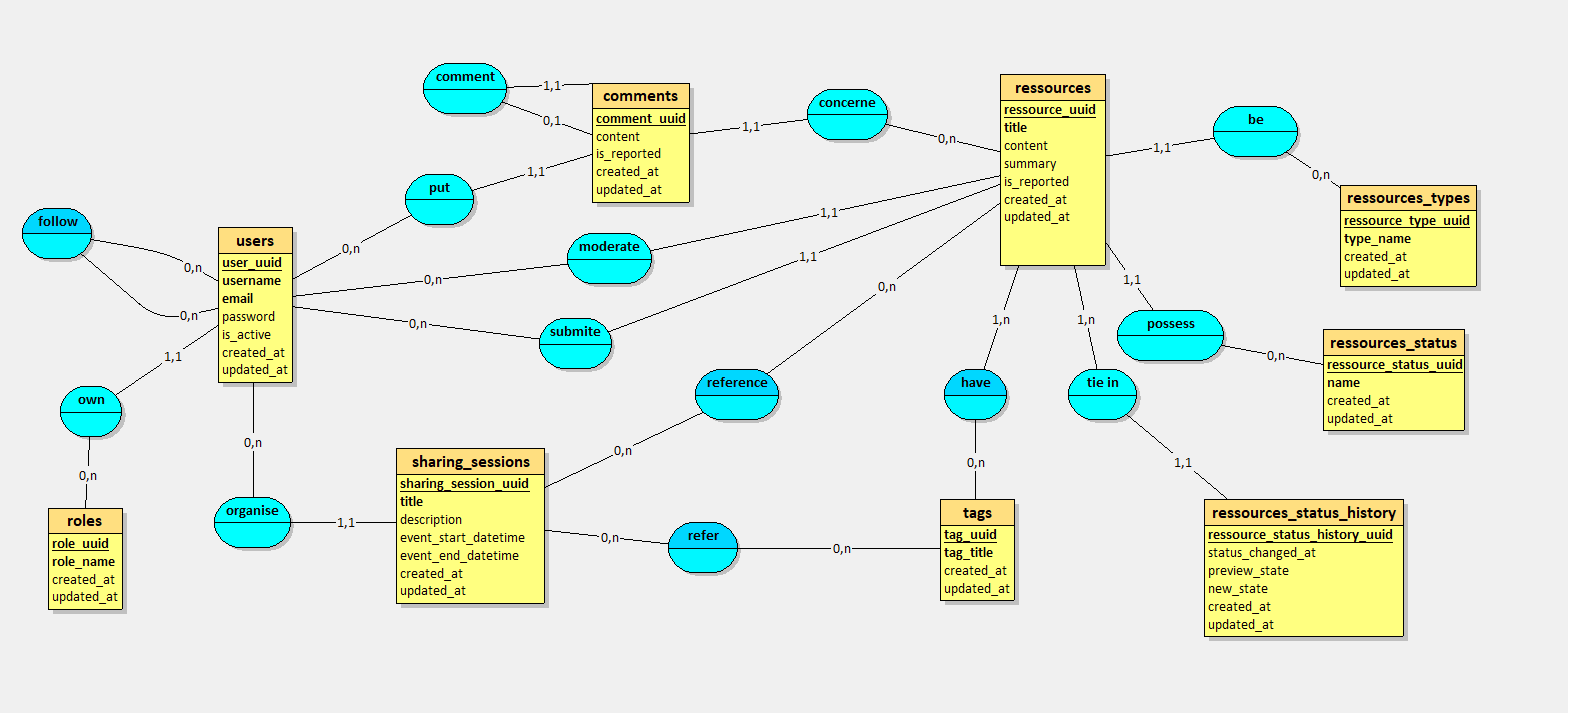
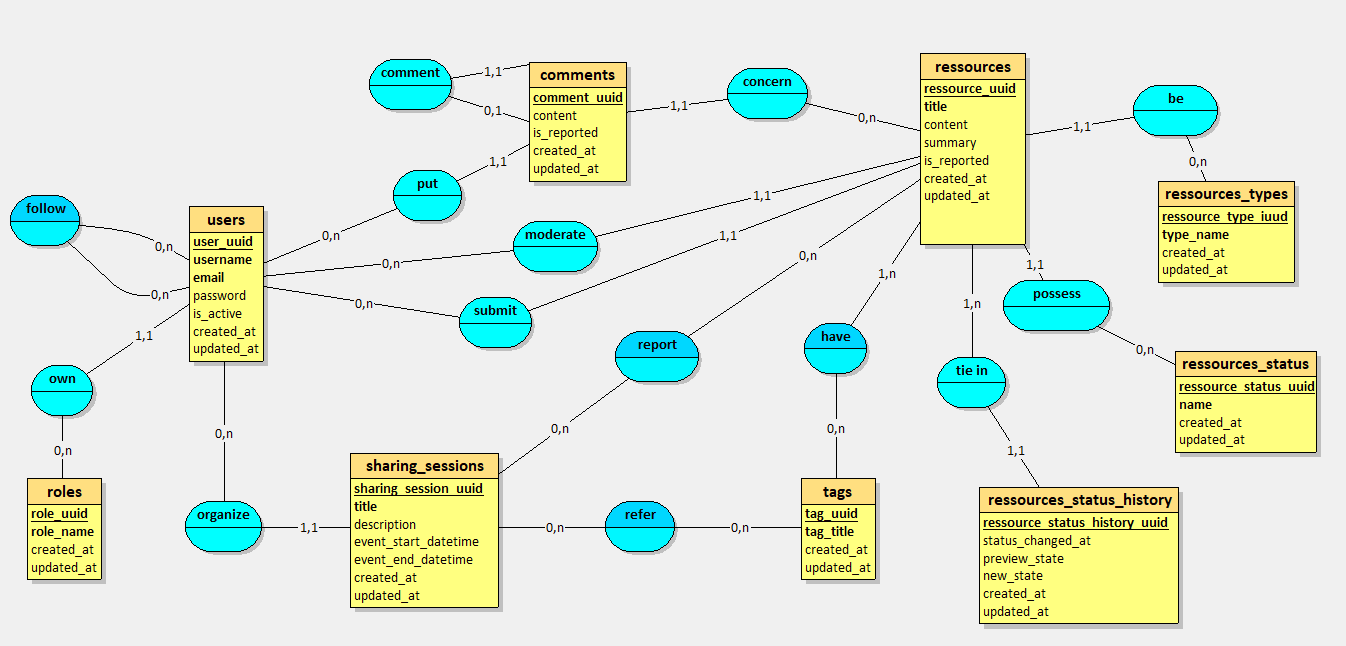
docs : fix images MCD MLD /add n° régles gestion

diff --git a/doc/Spécifications-fonctionnelles/Règles-de-gestion.md b/doc/Spécifications-fonctionnelles/Règles-de-gestion.md
@@ -2,139 +2,139 @@
 
 ### Accessibilité
 
-- L'application doit être conforme aux normes d'accessibilité WCAG pour garantir l'accessibilité à tous les utilisateurs.
+- RG_01: L'application doit être conforme aux normes d'accessibilité WCAG pour garantir l'accessibilité à tous les utilisateurs.
 
 ## Utilisateurs
 
 ### Visiteur
 
-- Un visiteur peut s’enregistrer pour devenir membre avec un pseudonyme unique, un email unique et un mot de passe et a un état actif par défaut
-- Un visiteur peut télécharger une ressource
-- Un visiteur peut lire les ressources présentes sur la plateforme
-- Un visiteur peut parcourir les différentes catégories de contenu
-- Un visiteur peut utiliser la fonction de recherche pour trouver des ressources
+- RG_02: Un visiteur peut s’enregistrer pour devenir membre avec un pseudonyme unique, un email unique et un mot de passe et a un état actif par défaut
+- RG_03:  Un visiteur peut télécharger une ressource
+- RG_04: Un visiteur peut lire les ressources présentes sur la plateforme
+- RG_05: Un visiteur peut parcourir les différentes catégories de contenu
+- RG_06: Un visiteur peut utiliser la fonction de recherche pour trouver des ressources
 
 ### Membres
 
-- Un membre peut soumettre à publication une ressource
-- Un membre peut soumettre à publication un lien d’une ressource
-- Un membre peut déposer un ou des commentaires à une publication
-- Un membre peut modifier son commentaire si aucun autre commentaire n’a été ajouté en réponse à celui-ci
-- Un membre peut répondre à un ou des commentaires
-- Un membre peut ajouter une note à une ressource (notation en étoile sur /5 )
-- Un membre peut modifier sa note à une ressource (notation en étoile sur /5 )
-- Un membre peut supprimer sa note à une ressource (notation en étoile sur /5 )
-- Un membre peut télécharger une ressource
-- Un membre peut visualiser une vidéo (tutoriel, conférence…)
-- Un membre a un dashboard où il visualise ses commentaires
-- Un membre a un dashboard où il visualise ses favoris (ressources)
-- Un membre a un dashboard où il visualise les statistiques de ses publications (nombre de vues, commentaires, partages, etc.)
-- Un membre peut ajouter des contenus (ressources) en favori à son dashboard
-- Un membre peut supprimer des contenus (ressources) en favori à son dashboard
-- Un membre peut lister les tags des contenus les plus visités
-- Un membre peut filtrer les tags des contenus les plus visités
-- Un membre peut recevoir des notifications pour les nouveaux contenus correspondant à ses intérêts
-- Un membre peut signaler du contenu inapproprié aux modérateurs
-- Un membre peut suivre d’autres utilisateurs
-- Un membre peut proposer et participer à des discussions de groupe ou forums
-- Un membre peut configurer des alertes sur ses tags préférés
-- Un membre peut voir les sessions d’échange proposées par les autres membres
+- RG_07: Un membre peut soumettre à publication une ressource
+- RG_08: Un membre peut soumettre à publication un lien d’une ressource
+- RG_09 Un membre peut déposer un ou des commentaires à une publication
+- RG_10: Un membre peut modifier son commentaire si aucun autre commentaire n’a été ajouté en réponse à celui-ci
+- RG_11: Un membre peut répondre à un ou des commentaires
+- RG_12: Un membre peut ajouter une note à une ressource (notation en étoile sur /5 )
+- RG_13: Un membre peut modifier sa note à une ressource (notation en étoile sur /5 )
+- RG_14: Un membre peut supprimer sa note à une ressource (notation en étoile sur /5 )
+- RG_15: Un membre peut télécharger une ressource
+- RG_16: Un membre peut visualiser une vidéo (tutoriel, conférence…)
+- RG_17: Un membre a un dashboard où il visualise ses commentaires
+- RG_18: Un membre a un dashboard où il visualise ses favoris (ressources)
+- RG_19: Un membre a un dashboard où il visualise les statistiques de ses publications (nombre de vues, commentaires, partages, etc.)
+- RG_20: Un membre peut ajouter des contenus (ressources) en favori à son dashboard
+- RG_21: Un membre peut supprimer des contenus (ressources) en favori à son dashboard
+- RG_22: Un membre peut lister les tags des contenus les plus visités
+- RG_23: Un membre peut filtrer les tags des contenus les plus visités
+- RG_24: Un membre peut recevoir des notifications pour les nouveaux contenus correspondant à ses intérêts
+- RG_25: Un membre peut signaler du contenu inapproprié aux modérateurs
+- RG_26: Un membre peut suivre d’autres utilisateurs
+- RG_27: Un membre peut proposer et participer à des discussions de groupe ou forums
+- RG_28: Un membre peut configurer des alertes sur ses tags préférés
+- RG_29: Un membre peut voir les sessions d’échange proposées par les autres membres
 
 ### Modérateur
 
-- Un modérateur a tous les droits d’un membre
-- Un modérateur peut anonymisé un commentaire en cas de contenu haineux, discriminant ou inapproprié, déclenchant une notification automatique à l'encontre de l'auteur du commentaire
-- Un modérateur peut envoyer une notification à un membre
-- Un modérateur peut désactiver un membre (avec notification automatique)
-- Un modérateur vérifie les ressources avant publication
-- Un modérateur peut ajouter une ressource
-- Un modérateur peut désactiver une ressource
-- Un modérateur peut voir une ressource désactivée
-- Un modérateur a un dashboard où il visualise les dernières resources avant mise en ligne
-- Un modérateur a un dashboard où il visualise ses dernières ressources archivées
-- Un modérateur a un dashboard où il visualise les derniers commentaires signalés
-- Un modérateur peut restaurer une ressource
-- Un modérateur peut accéder à l’historique des modifications des commentaires et des ressources
-- Un modérateur peut attribuer des avertissements aux membres pour comportements inappropriés
-- Un modérateur peut consulter des rapports d’activité des membres
-- Un modérateur a un outil pour détecter automatiquement du contenu inapproprié sur les commentaires
-- Un modérateur peut bloquer temporairement un membre
+- RG_30: Un modérateur a tous les droits d’un membre
+- RG_31: Un modérateur peut anonymisé un commentaire en cas de contenu haineux, discriminant ou inapproprié, déclenchant une notification automatique à l'encontre de l'auteur du commentaire
+- RG_32: Un modérateur peut envoyer une notification à un membre
+- RG_33: Un modérateur peut désactiver un membre (avec notification automatique)
+- RG_34: Un modérateur vérifie les ressources avant publication
+- RG_35: Un modérateur peut ajouter une ressource
+- RG_36: Un modérateur peut désactiver une ressource
+- RG_37: Un modérateur peut voir une ressource désactivée
+- RG_38: Un modérateur a un dashboard où il visualise les dernières resources avant mise en ligne
+- RG_39: Un modérateur a un dashboard où il visualise ses dernières ressources archivées
+- RG_40: Un modérateur a un dashboard où il visualise les derniers commentaires signalés
+- RG_41: Un modérateur peut restaurer une ressource
+- RG_42: Un modérateur peut accéder à l’historique des modifications des commentaires et des ressources
+- RG_43: Un modérateur peut attribuer des avertissements aux membres pour comportements inappropriés
+- RG_44: Un modérateur peut consulter des rapports d’activité des membres
+- RG_45: Un modérateur a un outil pour détecter automatiquement du contenu inapproprié sur les commentaires
+- RG_46: Un modérateur peut bloquer temporairement un membre
 
 ### Administrateur
 
-- Un administrateur a les droits d’un modérateur
-- Un administrateur peut créer, modifier et désactiver des comptes utilisateurs, y compris ceux des modérateurs
-- Un administrateur peut configurer les permissions et rôles des membres
-- Un administrateur peut voir et gérer toutes les notifications envoyées par la plateforme
-- Un administrateur peut générer et consulter des rapports d’activité et des statistiques détaillées sur l’utilisation de la plateforme
-- Un administrateur peut gérer les catégories de contenu et les tags associés
-- Un administrateur peut superviser et auditer les actions des modérateurs
-- Un administrateur a un dashboard où il visualise les statistiques d’engagement
-- Un administrateur peut voir les statistiques en fonction du type de contenu
-- Un administrateur peut voir les tags les plus populaires mis en favoris
-- Un administrateur peut voir les ressources les plus populaires mis en favoris
-- Un administrateur peut voir le nombre de commentaires
-- Un administrateur peut voir le nombre de visiteurs
-- Un administrateur peut voir le nombre de membres
+- RG_47: Un administrateur a les droits d’un modérateur
+- RG_48: Un administrateur peut créer, modifier et désactiver des comptes utilisateurs, y compris ceux des modérateurs
+- RG_49: Un administrateur peut configurer les permissions et rôles des membres
+- RG_50: Un administrateur peut voir et gérer toutes les notifications envoyées par la plateforme
+- RG_51: Un administrateur peut générer et consulter des rapports d’activité et des statistiques détaillées sur l’utilisation de la plateforme
+- RG_52: Un administrateur peut gérer les catégories de contenu et les tags associés
+- RG_53: Un administrateur peut superviser et auditer les actions des modérateurs
+- RG_54: Un administrateur a un dashboard où il visualise les statistiques d’engagement
+- RG_55: Un administrateur peut voir les statistiques en fonction du type de contenu
+- RG_56: Un administrateur peut voir les tags les plus populaires mis en favoris
+- RG_57: Un administrateur peut voir les ressources les plus populaires mis en favoris
+- RG_58: Un administrateur peut voir le nombre de commentaires
+- RG_59: Un administrateur peut voir le nombre de visiteurs
+- RG_60: Un administrateur peut voir le nombre de membres
 
 ### Super-administrateur
 
-- Un super administrateur peut créer, modifier et désactiver des comptes administrateurs
-- Un super administrateur peut s’authentifier et interagir qu’en ligne de commande
+- RG_61: Un super administrateur peut créer, modifier et désactiver des comptes administrateurs
+- RG_62: Un super administrateur peut s’authentifier et interagir qu’en ligne de commande
 
 ### Droit commun à tous les utilisateurs sauf visiteur
 
-- Un utilisateur est informé de ses droits RGPD, incluant le droit à la consultation (accès à ses données), droit de rectification (correction de ses données), droit à l’oublie (suppression de ses données) et la possibilité de retirer son consentement à tout moment.
-- Un utilisateur a obligatoirement un et un seul statut de membre, modérateur, administrateur
-- Un utilisateur peut se connecter avec son email et son mot de passe
-- Un utilisateur peut faire une demande de désactivation de son compte
-- Un utilisateur peut réinitialiser son mot de passe si il l’a oublié via un email ou une question de sécurité.
+- RG_63: Un utilisateur est informé de ses droits RGPD, incluant le droit à la consultation (accès à ses données), droit de rectification (correction de ses données), droit à l’oublie (suppression de ses données) et la possibilité de retirer son consentement à tout moment.
+- RG_64: Un utilisateur a obligatoirement un et un seul statut de membre, modérateur, administrateur
+- RG_65: Un utilisateur peut se connecter avec son email et son mot de passe
+- RG_66: Un utilisateur peut faire une demande de désactivation de son compte
+- RG_67: Un utilisateur peut réinitialiser son mot de passe si il l’a oublié via un email ou une question de sécurité.
 
 ## Tags
 
-- Un tag contient un intitule unique (exemple : C#, PHP, IA)
+- RG_68: Un tag contient un intitule unique (exemple : C#, PHP, IA)
 
 ## Commun à toutes les Ressources
 
-- Un ressource est composé d'un titre unique
-- Un ressource est composé d'une description
-- Un ressource a une date de publication
-- Un ressource a le pseudo de l'auteur de la ressource
-- Un ressource a le nombre de fois qu'il a été placé en favoris
-- Un ressource a une moyenne des notations données par les membres (étoile/5)
-- Un ressource peut être relié à un ou plusieurs tags
-- Un ressource peut être issu d’une source externe et être repartager sur ce site
-- Un ressource peut contenir des commentaires
-- Un ressource peut être désactivé
+- RG_69: Un ressource est composé d'un titre unique
+- RG_70: Un ressource est composé d'une description
+- R0_G71: Un ressource a une date de publication
+- RG_72:  Un ressource a le pseudo de l'auteur de la ressource
+- RG_73: Un ressource a le nombre de fois qu'il a été placé en favoris
+- RG_74: Un ressource a une moyenne des notations données par les membres (étoile/5)
+- RG_75: Un ressource peut être relié à un ou plusieurs tags
+- RG_76: Un ressource peut être issu d’une source externe et être repartager sur ce site
+- RG_77: Un ressource peut contenir des commentaires
+- RG_78: Un ressource peut être désactivé
 
 ### Ressources : Un Article
 
-- Un article peut contenir une image
+- RG_79: Un article peut contenir une image
 
 ### Ressources : Un CheatSheet
 
-- Un CheatSheet est un document PDF
+- RG_80: Un CheatSheet est un document PDF
 
 ### Ressources : Un Tutoriel
 
-- Un tutoriel peut contenir une vidéo
+- RG_81: Un tutoriel peut contenir une vidéo
 
 ## Les sessions d'échanges
 
-- Une session d'échange possède un titre
-- Une session d'échange possède une description
-- Une session d'échange possède une date de début et une heure de début
-- Une session d'échange possède une date de fin et une heure de fin
+- RG_82: Une session d'échange possède un titre
+- RG_83: Une session d'échange possède une description
+- RG_84: Une session d'échange possède une date de début et une heure de début
+- RG_85: Une session d'échange possède une date de fin et une heure de fin
 
 ## Un commentaire
 
-- Un commentaire doit être relié à un seul contenu (ressource)
-- Un commentaire peut être la réponse à un commentaire
-- Un commentaire ayant une réponse ne peut plus être modifié
-- Un commentaire est ajouté par un membre
-- Un commentaire a une date de création
-- Un commentaire a une date de modification
-- Un commentaire ne doit pas contenir d’adresse mail
-- Un commentaire a le pseudo de son auteur
+- RG_86: Un commentaire doit être relié à un seul contenu (ressource)
+- RG_87: Un commentaire peut être la réponse à un commentaire
+- RG_88: Un commentaire ayant une réponse ne peut plus être modifié
+- RG_89: Un commentaire est ajouté par un membre
+- RG_90: Un commentaire a une date de création
+- RG_91: Un commentaire a une date de modification
+- RG_92: Un commentaire ne doit pas contenir d’adresse mail
+- RG_93: Un commentaire a le pseudo de son auteur
 
 [🔙 Retour à la Table des matières principale](../../README.md)

diff --git a/doc/Spécifications-techniques/Choix-stack-techniques/Questions-globales.md b/doc/Spécifications-techniques/Choix-stack-techniques/Questions-globales.md
@@ -2,7 +2,7 @@
 
 # Questions / Réponses
 
-Ce tableau résume nos choix technologiques et les caractéristiques clés de notre projet, mettant en évidence l'efficacité de l'utilisation de Next.js, Next.js, et TypeORM ensemble pour créer une application robuste, bien architecturée et optimisée pour le SEO.
+Ce tableau résume nos choix technologiques et les caractéristiques clés de notre projet, mettant en évidence l'efficacité de l'utilisation de Next.js et TypeORM ensemble pour créer une application robuste, bien architecturée et optimisée pour le SEO.
 
 | Questions        | Réponses                           | Remarques supplémentaires                                                                                                                                                             |
 | ---------------- | ---------------------------------- | ------------------------------------------------------------------------------------------------------------------------------------------------------------------------------------- |
